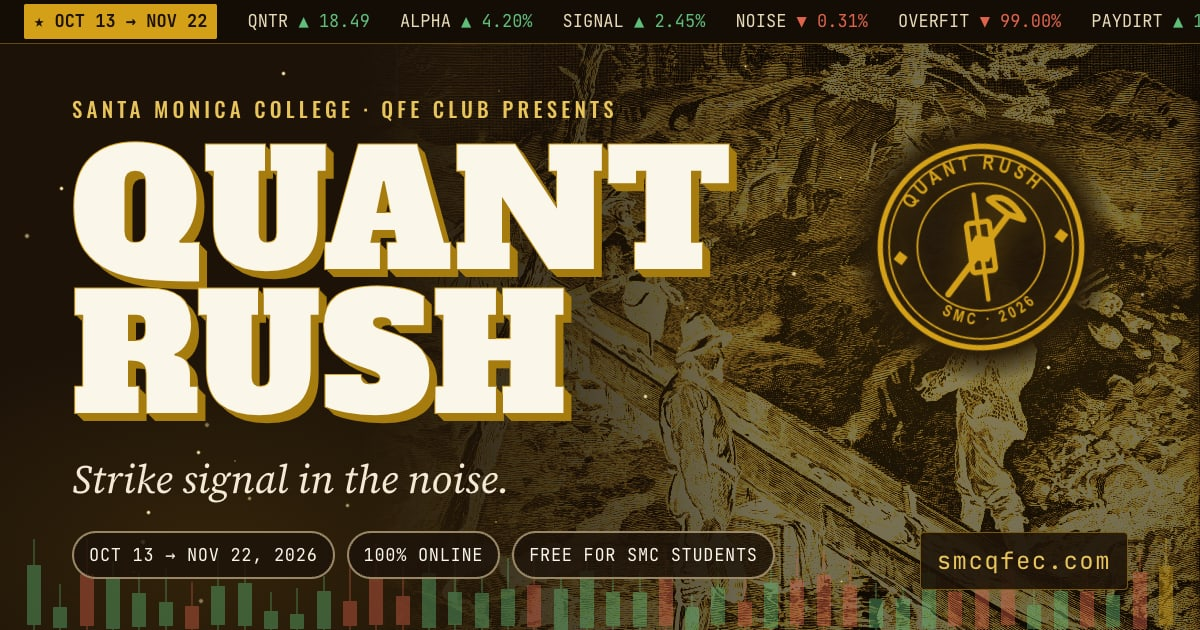
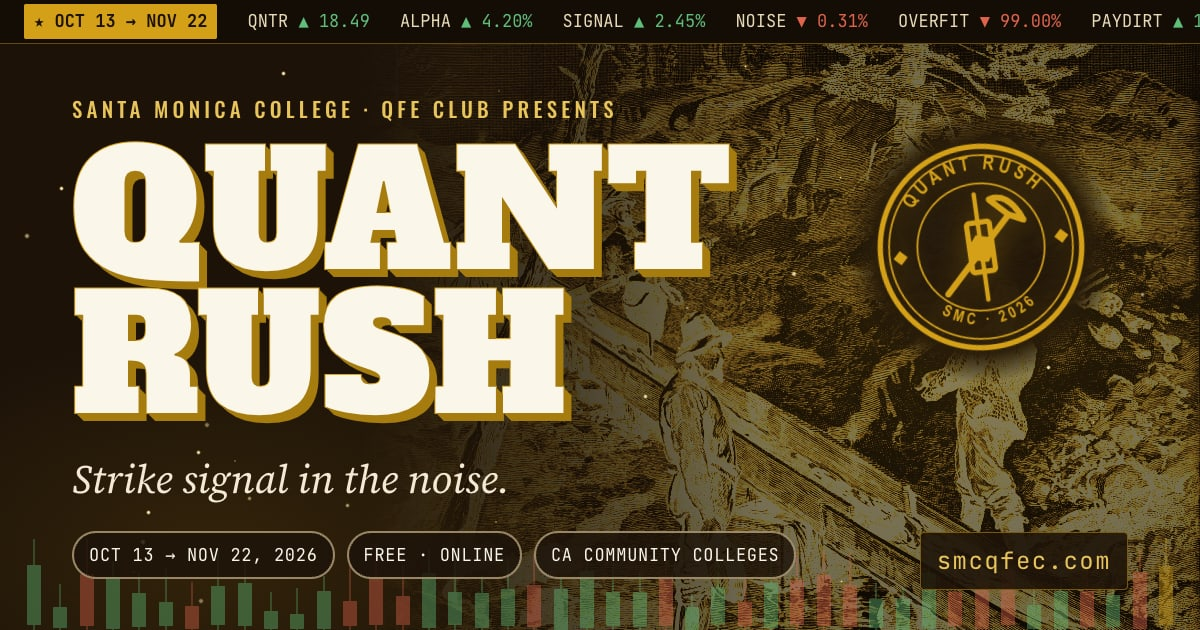
Open Quant Rush to California community colleges
Eligibility, hero, about, registration, FAQ, and the share image now
say California community college students. Workshops are presented as
separate, in-person sessions for SMC students, so the rules and FAQ no
longer depend on them; office hours and recordings are gone. The rules
no longer describe how the dataset was prepared, link "the Code" to its
section, and frame The Prospector's Report as the award for thinking
rather than code.

Changed region(s): [[0.3083, 0.8444, 0.6783, 0.9349]]

diff --git a/src/config/site.ts b/src/config/site.ts
@@ -7,7 +7,7 @@ export const SITE = {
   tagline: 'Strike signal in the noise.',
   subtitle: "SMC's first online quant competition",
   description:
-    'Quant Rush is a six-week online quant competition open to all Santa Monica College students, hosted by the Quantitative Finance & Entrepreneurship Club. No experience needed.',
+    'Quant Rush is a six-week online quant competition open to all California community college students, hosted by the Quantitative Finance & Entrepreneurship Club at Santa Monica College. No experience needed.',
 
   organizer: {
     name: 'Quantitative Finance & Entrepreneurship Club',
@@ -17,7 +17,7 @@ export const SITE = {
     instagram: 'qfecsmc',
     meeting: 'Tuesdays 11:15–12:15 · MSB 207',
     blurb:
-      'A student club for people who like markets, math, and building things. Meetings every Tuesday; everyone is welcome.',
+      'A student club for people who like markets, math, and building things. Meetings every Tuesday; all SMC students are welcome.',
   },
 
   /** ISO timestamps with explicit Pacific offsets (PDT until Nov 1, 2026, then PST). */
@@ -40,11 +40,11 @@ export const SITE = {
 
   /** Social share image (1200×630) under public/. Regenerate with `npm run og`. */
   ogImage: '/brand/og.jpg',
-  ogImageAlt: 'Quant Rush: Strike signal in the noise. An online quant competition for SMC students, Oct 13 to Nov 22, 2026.',
+  ogImageAlt: 'Quant Rush: Strike signal in the noise. An online quant competition for California community college students, Oct 13 to Nov 22, 2026.',
 
   /** Path under public/ to the club logo (transparent PNG, teal mark). Empty = text badge. */
   logoPath: '/brand/logo-qfe.png',
 
   /** Pinned chip at the front of the ticker. Empty = none. */
-  tickerPin: '★ KICKOFF OCT 13 · MSB 207',
+  tickerPin: '★ OPENS OCT 13 · 100% ONLINE',
 } as const;

diff --git a/docs/design.md b/docs/design.md
@@ -126,11 +126,11 @@ paper-50, 2px ink-800 border, 6px radius, hard shadow 4px, padding 24–32px. Op
 
 ### 5.7 Notice box
 
-paper-200 background, 4px gold-500 left border, mono eyebrow ("ON THE RECORD"), serif text. Used for "Prizes are real; details at Kickoff" and for rules marked TBD.
+paper-200 background, 4px gold-500 left border, mono eyebrow ("ON THE RECORD"), serif text. Used for "Prizes are real; we'll announce them here and on Discord" and for rules marked TBD.
 
 ### 5.8 Accordion (FAQ)
 
-Native `<details>`. Each row has a bottom hairline; the summary is Oswald 600 `1.0625rem` ink-800 with a `+` in gold-800 on the right that rotates 45° when open; content is serif ink-600. Max width 760px.
+Native `<details>`. Opening and closing animate the height between the question and the full answer (Web Animations API, 300ms open / 240ms close, with a timer fallback so the state always settles) while the answer fades and the `+` rotates; under reduced motion it toggles natively. Each row has a bottom hairline; the summary is Oswald 600 `1.0625rem` ink-800 with a `+` in gold-800 on the right that rotates 45° when open; content is serif ink-600. Max width 760px.
 
 ### 5.9 Torn edge
 
@@ -202,7 +202,7 @@ A full-bleed `<canvas>` (`GoldDust.astro`) between the hero engraving and the co
 - Background stack: ink-900 → radial gold glow (ellipse at 50% 70%, gold-500 at 10% to transparent) → engraving backdrop (miners at a long tom), gold-masked, bottom-anchored, faded out above 40% height → gold dust (§5.21) → candlestick row along the bottom edge.
 - Content, top to bottom, with an 80ms staggered reveal: eyebrow `SANTA MONICA COLLEGE · QFE CLUB PRESENTS` (gold-300, with `— ◆ —` ornaments) → wordmark → tagline → facts stamps → countdown → buttons → scroll cue → engraving credit (bottom-right, mono `.6875rem`, paper at 60%).
 - **Wordmark:** "QUANT RUSH", Alfa, `--fs-display`, fill paper-50, `-webkit-text-stroke: 1.5px gold-500`, block extrusion via a `::before` duplicate (`attr(data-text)`) in gold-700 offset 6px/6px (4px on mobile). Breaks to two lines below 640px. Nice-to-have: a diagonal glint sweep every 7s.
-- **Tagline:** "Strike signal in the noise." in Source Serif italic, `--fs-lead`, paper-200. Below it, Oswald caps `.8125rem` paper-200 at 80%: `SMC'S FIRST ONLINE QUANT COMPETITION · OPEN TO ALL SMC STUDENTS`.
+- **Tagline:** "Strike signal in the noise." in Source Serif italic, `--fs-lead`, paper-200. Below it, Oswald caps `.8125rem` paper-200 at 80%: `SMC'S FIRST ONLINE QUANT COMPETITION · OPEN TO ALL CALIFORNIA COMMUNITY COLLEGE STUDENTS`.
 - **Facts stamps:** three mono pills (`OPENS OCT 13` · `THE ASSAY NOV 22` · `100% ONLINE`), 1.5px paper-300 at 60% border, rotated −2°, 1.5°, −1°; wrap on mobile.
 - **Buttons:** primary `STAKE YOUR CLAIM →` (scrolls to Register), secondary `HOW IT WORKS`. Full width and stacked below 640px.
 - **Scroll cue:** mono `▼ DIG IN`, bouncing on a 2s loop (off under reduced motion).
@@ -216,8 +216,8 @@ The newspaper clipping (§5.18), max 920px, centered, over the bleeding Sluice e
 A ticket, a tag, and a certificate in a 1.2 / 0.8 / 1 column grid, the tag hanging lower than its neighbors. Copy:
 
 1. **100% Online** (laptop icon) — "Compete from anywhere. Submissions and the leaderboard live on Kaggle."
-2. **Picks & Shovels** (pickaxe and shovel) — "Every Tuesday, 11:15–12:15 in MSB 207: a workshop, then office hours. We teach the tools; you dig."
-3. **Real Prizes** (nugget) — "For the top of the private leaderboard, the best beginner, and a few surprises. Details at Kickoff."
+2. **Picks & Shovels** (pickaxe and shovel) — "For SMC students: every Tuesday, a workshop, then Q&A. We teach the tools; you dig."
+3. **Real Prizes** (nugget) — "Real prizes for the top of the private leaderboard, the best beginner, and a few surprises."
 
 ### Timeline — "The Claim Trail" (rising stock line)
 
@@ -233,7 +233,7 @@ Header "From greenhorn to prospector, four levels down" on the paper-colored sur
 
 1. **Stake your claim** — Fill in the form below. Two minutes.
 2. **Get your gear** — Make a free Kaggle account and join the Quant Rush competition page.
-3. **Dig** — Download the data, train models, submit predictions. Come Tuesdays for workshops and office hours.
+3. **Dig** — Download the data, train models, submit predictions. Questions go to our Discord, any time.
 4. **The Assay** — Sunday, Nov 22: submissions close. The private leaderboard shows who struck real gold.
 
 ### Awards — "The Claims"
@@ -242,10 +242,10 @@ The medal shelf (§5.19). Names are placeholders, editable in `src/data/awards.j
 
 - **Mother Lode** — 1st, 2nd, 3rd on the private leaderboard (three medal dots: gold, silver, bronze).
 - **Greenhorn's Luck** — Best beginner team: the best-placed team whose members are all first-timers.
-- **The Prospector's Report** — Best memo, judged by the board: an optional one-to-two-page memo on how the team attacked the problem; rank doesn't matter.
+- **The Prospector's Report** — Best memo, judged by the board: the award for thinking rather than code. A one-to-two-page memo on how you'd attack the problem and why; open to anyone registered, with or without leaderboard submissions.
 - **Fool's Gold** (`award--joke`) — Biggest drop from the public to the private leaderboard among the public top 10.
 
-Notice box below: "Prizes are real. We'll announce what they are at Kickoff."
+Notice box below: "Prizes are real. We'll announce what they are here and on Discord."
 
 ### Register — "Stake Your Claim" WANTED poster on the corkboard (§5.16)
 
@@ -267,7 +267,7 @@ Below: a faint candlestick strip, a hairline, then mono `.75rem`: "© 2026 QFE C
 
 ## 7. Other pages
 
-- **Workshops (`/workshops`)** — a dark header band: eyebrow `WORKSHOPS · EVERY TUESDAY · MSB 207`, H1 "Picks & Shovels", lead, an engraving (miners with tools) gold-masked on the right, then a torn edge. Then a two-column grid (one on mobile) of `workshop` cards: a tear-off date block on the left (rust month strip, Alfa day numeral 2.5rem, mono weekday) and, on the right, title, summary, status badge (UPCOMING / TODAY / DONE), and a materials row (`SLIDES · NOTEBOOK · RECORDING`, dashed "coming soon" when empty). DONE cards sit at 80% opacity.
+- **Workshops (`/workshops`)** — a dark header band: eyebrow `WORKSHOPS · EVERY TUESDAY · MSB 207`, H1 "Picks & Shovels", lead, an engraving (miners with tools) gold-masked on the right, then a torn edge. Then a two-column grid (one on mobile) of `workshop` cards: a tear-off date block on the left (rust month strip, Alfa day numeral 2.5rem, mono weekday) and, on the right, title, summary, status badge (UPCOMING / TODAY / DONE), and a materials row (`SLIDES · NOTEBOOK`, dashed "coming soon" when empty). DONE cards sit at 80% opacity.
 - **Rules & FAQ (`/rules`)** — a dark header band: eyebrow `RULES · ELIGIBILITY · FAQ`, H1 "The Miner's Code", an engraving (assay office or scales). Body at ≥ 900px: a sticky left table of contents (Oswald caps, § numbers, current item gold) and content at ≤ 70ch on the right: §1 Eligibility, §2 Teams, §3 Data & Evaluation (public vs. private explained), §4 Awards, §5 Code of Conduct (a double-bordered poster box with five rules), §6 FAQ (full). Undecided lines carry the `TO BE FINALIZED` stamp.
 - **404** — dark, H1 "No gold here.", mono `404 · CLAIM NOT FOUND`, button "Back to camp", and an engraving if a suitable public-domain one is found.
 
@@ -321,39 +321,20 @@ The Astro site implements this spec. Where things live:
 
 Every token and component is on one page at `/styleguide` (unlinked, `noindex`). Fonts are self-hosted via `@fontsource` packages; the variable families register as "Oswald Variable", "Source Serif 4 Variable", and "JetBrains Mono Variable".
 
-## Appendix A — Copy deck (home)
+## Appendix A — Where the copy lives
 
-**Hero**
-- Eyebrow: SANTA MONICA COLLEGE · QFE CLUB PRESENTS
-- Wordmark: QUANT RUSH
-- Tagline: Strike signal in the noise.
-- Subline: SMC'S FIRST ONLINE QUANT COMPETITION · OPEN TO ALL SMC STUDENTS
-- Stamps: OPENS OCT 13 · THE ASSAY NOV 22 · 100% ONLINE
-- Countdown label: CLAIM STAKING OPENS IN
-- Buttons: STAKE YOUR CLAIM → / HOW IT WORKS
+The words on the site are not duplicated here, so they cannot drift. Edit them at the source:
 
-**About**
-Quant Rush is a six-week online competition where SMC students build models on a disguised, historical financial dataset. Every submission updates a public leaderboard; a private one, revealed at the end, decides the winners. No finance background and no Kaggle experience needed. Bring curiosity, a laptop, and a willingness to be wrong a few hundred times before you're right. The Quantitative Finance & Entrepreneurship Club runs the show and teaches the tools every Tuesday.
+| Copy | File |
+|---|---|
+| Name, tagline, subtitle, meta description, ticker pin, club blurb | `src/config/site.ts` |
+| Hero lines | `src/components/Hero.astro` |
+| About clipping | `src/components/Dispatch.astro` |
+| Highlights (ticket, tag, certificate) | `src/components/Highlights.astro` |
+| Timeline and workshop cards | `src/data/schedule.json` |
+| How it works | `src/components/Mine.astro` |
+| Awards | `src/data/awards.json` |
+| FAQ | `src/data/faq.json` |
+| Rules | `src/pages/rules.astro` |
 
-**Timeline**
-| Date | Title | Blurb |
-|---|---|---|
-| Tue Oct 13 | Stake Your Claim — Kickoff | Rules, Kaggle setup, team formation. The competition opens. |
-| Tue Oct 20 | Picks & Shovels I | Python, pandas, your first Kaggle notebook. Leave with a baseline submitted. |
-| Tue Oct 27 | Reading the Vein | Exploring the data and understanding the metric. |
-| Tue Nov 3 | Refining the Ore | Feature engineering and baseline models. |
-| Tue Nov 10 | What Glitters | Validation and overfitting: why the public leaderboard lies. |
-| Tue Nov 17 | The Last Dig | Office hours, ensembling, final submissions. |
-| Sun Nov 22 | The Assay — Deadline | Submissions close. The private leaderboard decides. |
-| Tue Dec 1 | Paydirt — Wrap-up | Winners announced. Top teams walk through their solutions. |
-
-**FAQ**
-- Do I need experience? — No. The first two workshops take you from zero to a submitted baseline. Experienced folks can skip ahead; beginners have their own award.
-- Is it free? — Yes. Registration, Kaggle, and the workshops are all free.
-- Can I team up? — Yes, in teams of up to N (to be finalized). Solo is fine too. Need teammates? Say so on the form and we'll match you at Kickoff.
-- Do I need to be a finance major? — No. If you can run a Python notebook, or want to learn, you're in.
-- What is Kaggle? — A free platform for data-science competitions. You upload predictions, it scores them and ranks everyone on a leaderboard. We walk you through it at Kickoff.
-- What do I win? — Prizes for the top three on the private leaderboard, the best beginner team, the best memo, and one joke award. The actual prizes are announced at Kickoff.
-
-**Footer blurb**
-A student club at Santa Monica College for people who like markets, math, and building things. Meetings every Tuesday; everyone is welcome.
+Copy rules: the competition is open to all California community college students and is fully online; the Tuesday workshops are separate, in person, and for SMC students, so competition copy (rules, FAQ, how it works) never depends on them. The site never describes how the dataset was prepared; it only says the data comes from a legitimate, lawful source and must not be traced back.

diff --git a/docs/site-plan.md b/docs/site-plan.md
@@ -43,7 +43,7 @@ The full visual spec lives in **`design.md`** (concept, color tokens, typography
 1. **Header / nav:** wordmark, links (Home, Workshops, Rules & FAQ), a gold "Register" button.
 2. **Ticker tape** (see above).
 3. **Hero:** "Quant Rush", tagline, subtitle, key dates, countdown (to the next milestone), primary button "Stake Your Claim" (scrolls to the form), secondary button "How it works".
-4. **About:** 3 to 4 sentences. What it is, who it is for (all SMC students, no experience needed), why it matters.
+4. **About:** 3 to 4 sentences. What it is, who it is for (all California community college students, no experience needed), why it matters.
 5. **Highlights:** three cards: Fully online, Weekly workshops, Prizes.
 6. **Timeline:** the 6-week schedule from `src/data/schedule.json`, with the current phase highlighted.
 7. **How it works:** 4 steps: Register, join on Kaggle, build and submit models, watch the leaderboard.
@@ -60,7 +60,7 @@ The full visual spec lives in **`design.md`** (concept, color tokens, typography
 
 ### 3. Rules & FAQ (`/rules`)
 
-- **Eligibility:** all SMC students; verified at prize time against the registration list.
+- **Eligibility:** all California community college students; verified at prize time against the registration list. The Tuesday workshops are separate and for SMC students.
 - **Team rules:** size and submission limits are TBD.
 - **Data and evaluation:** high-level only until the dataset is set; public vs. private leaderboard explanation.
 - **Prizes and awards:** how winners are chosen, including exact criteria for joke awards.

diff --git a/docs/decisions.md b/docs/decisions.md
@@ -8,6 +8,8 @@ Newest decisions go at the top of each section.
 
 | Topic | Decision |
 |---|---|
+| Audience | **All California community college students** (changed from SMC-only on 2026-10-07, limited to California the same day). The competition is fully online; the Tuesday workshops are separate, in person, and for SMC students. Competition copy (rules, FAQ, how it works) never depends on attending a workshop or a meeting, and announcements go to the site and Discord. |
+| Dataset wording | The site never describes how the dataset was prepared. It says only that the data comes from a legitimate, lawful source and that tracing it back to the original is against the rules. |
 | Branches and previews | `main` is production (GitHub Pages, smcqfec.com); day-to-day work happens on `dev` and is merged into `main` to go live. Cloudflare Pages (project `quant-rush`) builds previews of every other branch and of pull requests; its production auto-deploys are off. Preview builds are detected through `CF_PAGES`, show a "Preview build" bar, and are `noindex`. GitHub Pages has no public preview-deployment feature (the `preview` input of `actions/deploy-pages` is private alpha as of 2026-10). |
 | Community | A Discord server ("QFEC") is linked from the nav, the mobile menu, the footer, the FAQ, and the rules page. The invite URL lives in `SITE.links.discord`; it must be an invite set to never expire. |
 | Share image | `public/brand/og.jpg` (1200×630), rendered from the unlisted `/og/` page by `npm run og`. Pages declare it with Open Graph and `summary_large_image` Twitter tags. |

diff --git a/README.md b/README.md
@@ -6,7 +6,7 @@ Official website for **Quant Rush**, the online Kaggle competition hosted by the
 
 ## About
 
-The QFE Club is organizing a six-week online quant competition for all SMC students (Oct 13 – Nov 22, 2026, wrap-up Dec 1). This site is the single place for participants to learn about the competition and follow along: overview, timeline, weekly workshops, rules and FAQ, awards, and registration.
+The QFE Club is organizing a six-week online quant competition open to all California community college students (Oct 13 – Nov 22, 2026, winners announced Dec 1). The club's Tuesday workshops are separate and in person for SMC students. This site is the single place for participants to learn about the competition and follow along: overview, timeline, weekly workshops, rules and FAQ, awards, and registration.
 
 This repository holds only the website. The competition itself (problem design, data, baselines) is maintained separately and privately.
 
